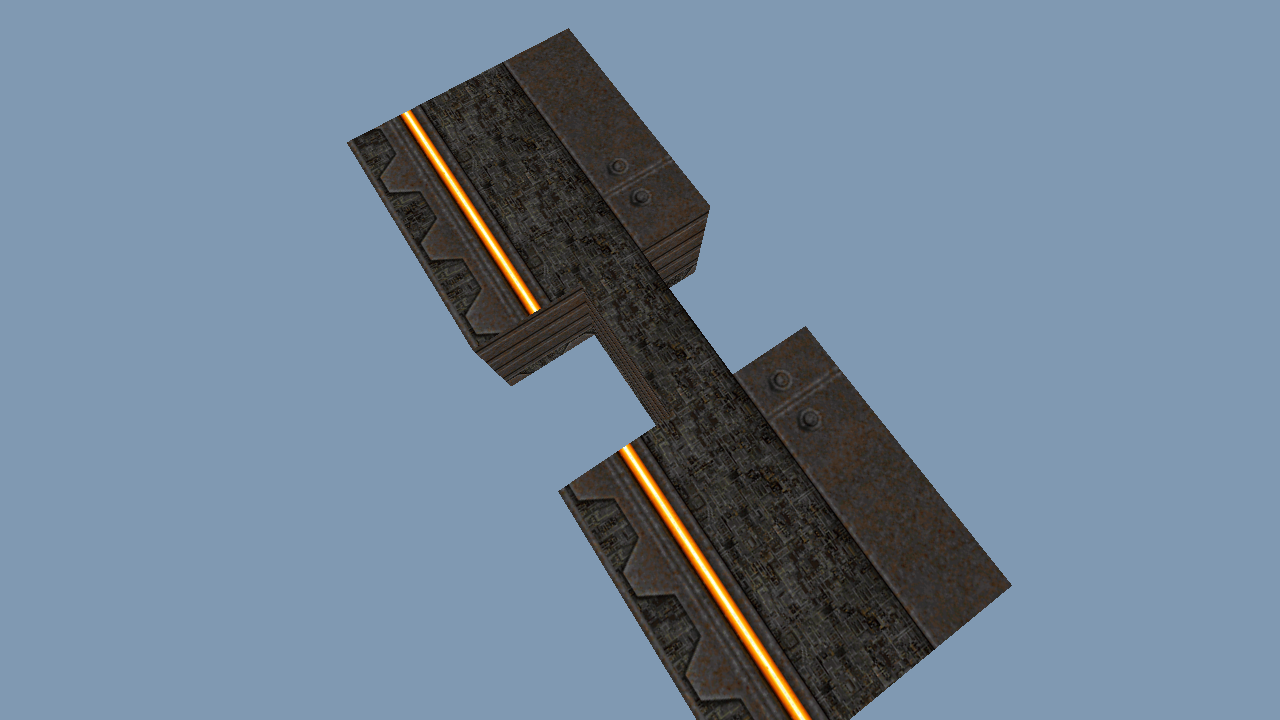
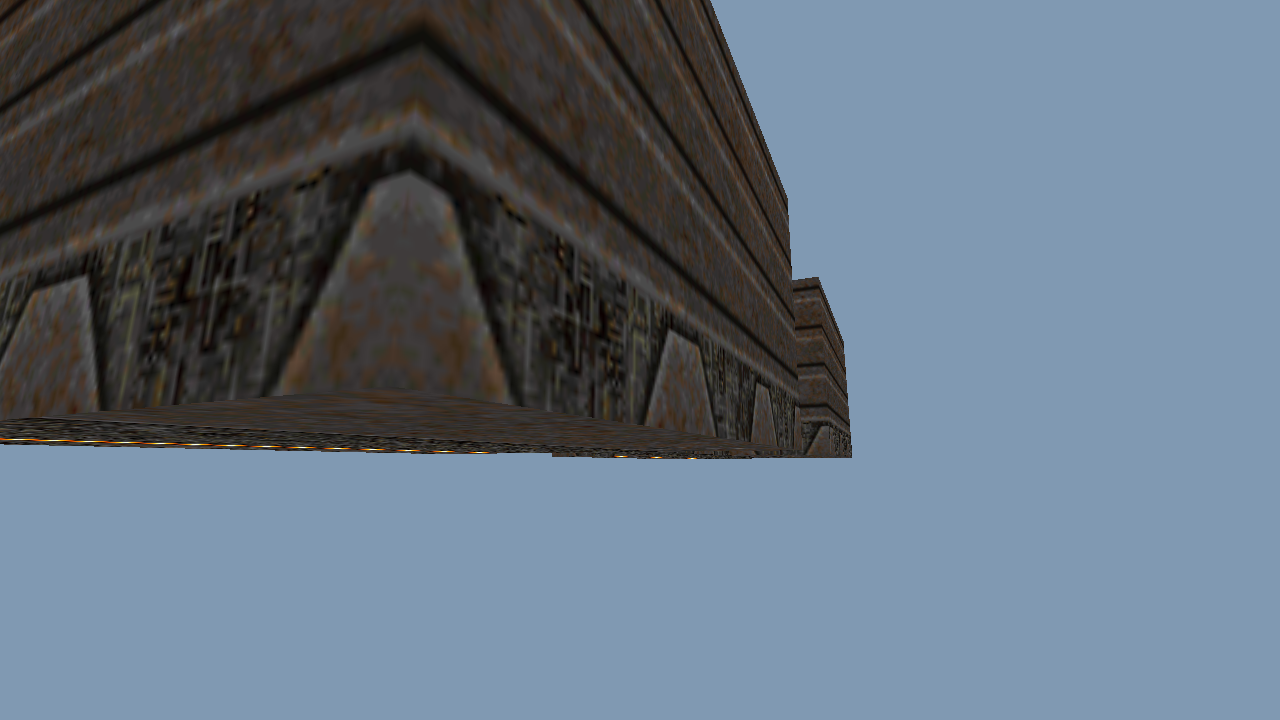
Implement per-face texture rendering with GL texture arrays
- Load all BSP-referenced textures into memory arrays
- Create GL_TEXTURE_2D_ARRAY and upload textures as layers
- Pass texture index per-vertex via normal.x field
- Update shaders to use sampler2DArray with flat texture index
- Engine now renders different textures on different faces (wall/floor/ceiling)

diff --git a/q2.c b/q2.c
@@ -17,7 +17,7 @@ M PR(F fov,F asp,F n,F f){M r=ID();F t=1/tanf(fov*.5f);r.m[0]=t/asp;r.m[5]=t;r.m
 M LK(V e,V t,V u){V f={t.x-e.x,t.y-e.y,t.z-e.z};F l=sqrtf(f.x*f.x+f.y*f.y+f.z*f.z);f.x/=l;f.y/=l;f.z/=l;V s={f.y*u.z-f.z*u.y,f.z*u.x-f.x*u.z,f.x*u.y-f.y*u.x};l=sqrtf(s.x*s.x+s.y*s.y+s.z*s.z);s.x/=l;s.y/=l;s.z/=l;V v={s.y*f.z-s.z*f.y,s.z*f.x-s.x*f.z,s.x*f.y-s.y*f.x};M r=ID();r.m[0]=s.x;r.m[4]=s.y;r.m[8]=s.z;r.m[1]=v.x;r.m[5]=v.y;r.m[9]=v.z;r.m[2]=-f.x;r.m[6]=-f.y;r.m[10]=-f.z;r.m[12]=-(s.x*e.x+s.y*e.y+s.z*e.z);r.m[13]=-(v.x*e.x+v.y*e.y+v.z*e.z);r.m[14]=f.x*e.x+f.y*e.y+f.z*e.z;return r;}
 void LP(){I sz;U*d=LF("baseq2/pics/colormap.pcx",&sz);if(d&&sz>768){memcpy(pal,d+sz-768,768);free(d);printf("Palette: loaded\n");}else{free(d);printf("Palette: failed\n");}}
 I LW(const char*p){I sz;U*d=LF(p,&sz);if(!d||sz<100)return 0;TX*h=(TX*)d;I tw=h->w,th=h->h;U*rgb=malloc(tw*th*3);for(I i=0;i<tw*th;i++){U idx=d[h->o[0]+i];rgb[i*3]=pal[idx*3];rgb[i*3+1]=pal[idx*3+1];rgb[i*3+2]=pal[idx*3+2];}I tx;glGenTextures(1,&tx);glBindTexture(GL_TEXTURE_2D,tx);glTexImage2D(GL_TEXTURE_2D,0,GL_RGB,tw,th,0,GL_RGB,GL_UNSIGNED_BYTE,rgb);glTexParameteri(GL_TEXTURE_2D,GL_TEXTURE_MIN_FILTER,GL_LINEAR);glTexParameteri(GL_TEXTURE_2D,GL_TEXTURE_MAG_FILTER,GL_LINEAR);printf("WAL: %dx%d\n",tw,th);free(rgb);free(d);return tx;}
-I txm[256];I txc=0;void BS(const char*p){I sz;U*d=LF(p,&sz);if(!d||sz<8||memcmp(d,"IBSP",4)||((I*)d)[1]!=38){F t[]={-100,-100,0,0,0,0.5,0.5,0,1,0,100,-100,0,1,0,0.5,0.5,0,1,0,0,100,0,0.5,1,0.5,0.5,0,1,0};vb=malloc(sizeof(t));memcpy(vb,t,sizeof(t));nv=3;return;}L*lp=(L*)(d+8);V*vx=(V*)(d+lp[2].o);TI*ti=(TI*)(d+lp[5].o);E*ed=(E*)(d+lp[11].o);J*se=(J*)(d+lp[12].o);FC*fc=(FC*)(d+lp[6].o);U*lm=(U*)(d+lp[7].o);I nf=lp[6].l/sizeof(FC);I nt=lp[5].l/sizeof(TI);for(I i=0;i<nt&&txc<256;i++){char pth[128];sprintf(pth,"baseq2/textures/%s.wal",ti[i].n);I tx=LW(pth);txm[i]=tx?tx:tex;}U*la=malloc(512*512*3);memset(la,128,512*512*3);I lx=0,ly=0,lh=0;vb=malloc(nf*100*10*sizeof(F));F*vp=vb;F mx=-9e9,my=-9e9,mz=-9e9,Mx=9e9,My=9e9,Mz=9e9;for(I i=0;i<nf;i++){FC*f=&fc[i];TI*tx=&ti[f->ti];V vl[64];I nv_=0;F mu=9e9,mv=9e9,Mu=-9e9,Mv=-9e9;for(I j=0;j<f->ne&&j<64;j++){J si=se[f->fe+j];S vi=si>=0?ed[si].v[0]:ed[-si].v[1];vl[nv_]=vx[vi];F u=vl[nv_].x*tx->v[0][0]+vl[nv_].y*tx->v[0][1]+vl[nv_].z*tx->v[0][2]+tx->v[0][3];F vv=vl[nv_].x*tx->v[1][0]+vl[nv_].y*tx->v[1][1]+vl[nv_].z*tx->v[1][2]+tx->v[1][3];mu=u<mu?u:mu;mv=vv<mv?vv:mv;Mu=u>Mu?u:Mu;Mv=vv>Mv?vv:Mv;nv_++;}I lw=(I)((Mu-mu)/16)+1,lh_=(I)((Mv-mv)/16)+1;if(lx+lw>512){lx=0;ly+=lh+1;lh=0;}if(f->lm>=0&&f->lm<lp[7].l){for(I y=0;y<lh_;y++)for(I x=0;x<lw;x++){I si=(lx+x+(ly+y)*512)*3,di=f->lm+(x+y*lw)*3;if(di+2<lp[7].l){la[si]=lm[di];la[si+1]=lm[di+1];la[si+2]=lm[di+2];}}}for(I t=0;t<nv_-2;t++){for(I k=0;k<3;k++){V*v=k==0?&vl[0]:k==1?&vl[t+1]:&vl[t+2];F u=(v->x*tx->v[0][0]+v->y*tx->v[0][1]+v->z*tx->v[0][2]+tx->v[0][3])/256.0f;F vv=(v->x*tx->v[1][0]+v->y*tx->v[1][1]+v->z*tx->v[1][2]+tx->v[1][3])/512.0f;F lu=(v->x*tx->v[0][0]+v->y*tx->v[0][1]+v->z*tx->v[0][2]+tx->v[0][3]-mu)/16.0f;F lv=(v->x*tx->v[1][0]+v->y*tx->v[1][1]+v->z*tx->v[1][2]+tx->v[1][3]-mv)/16.0f;mx=v->x>mx?v->x:mx;my=v->y>my?v->y:my;mz=v->z>mz?v->z:mz;Mx=v->x<Mx?v->x:Mx;My=v->y<My?v->y:My;Mz=v->z<Mz?v->z:Mz;*vp++=v->x;*vp++=v->y;*vp++=v->z;*vp++=u;*vp++=vv;*vp++=(lx+lu)/512.0f;*vp++=(ly+lv)/512.0f;*vp++=f->ti/255.0f;*vp++=1;*vp++=1;}}lx+=lw+1;lh=lh_>lh?lh_:lh;}nv=(vp-vb)/10;glGenTextures(1,&lmt);glBindTexture(GL_TEXTURE_2D,lmt);glTexImage2D(GL_TEXTURE_2D,0,GL_RGB,512,512,0,GL_RGB,GL_UNSIGNED_BYTE,la);glTexParameteri(GL_TEXTURE_2D,GL_TEXTURE_MIN_FILTER,GL_LINEAR);glTexParameteri(GL_TEXTURE_2D,GL_TEXTURE_MAG_FILTER,GL_LINEAR);free(la);printf("BSP: %d faces -> %d tris, %d textures, bounds:[%.0f,%.0f] [%.0f,%.0f] [%.0f,%.0f]\n",nf,nv/3,nt,Mx,mx,My,my,Mz,mz);free(d);}
+U*txd[256];I txw[256],txh[256],txc=0;void BS(const char*p){I sz;U*d=LF(p,&sz);if(!d||sz<8||memcmp(d,"IBSP",4)||((I*)d)[1]!=38){F t[]={-100,-100,0,0,0,0.5,0.5,0,1,0,100,-100,0,1,0,0.5,0.5,0,1,0,0,100,0,0.5,1,0.5,0.5,0,1,0};vb=malloc(sizeof(t));memcpy(vb,t,sizeof(t));nv=3;return;}L*lp=(L*)(d+8);V*vx=(V*)(d+lp[2].o);TI*ti=(TI*)(d+lp[5].o);E*ed=(E*)(d+lp[11].o);J*se=(J*)(d+lp[12].o);FC*fc=(FC*)(d+lp[6].o);U*lm=(U*)(d+lp[7].o);I nf=lp[6].l/sizeof(FC);I nt=lp[5].l/sizeof(TI);for(I i=0;i<nt&&txc<256;i++){char pth[128];sprintf(pth,"baseq2/textures/%s.wal",ti[i].n);I sz2;U*td=LF(pth,&sz2);if(td&&sz2>100){TX*h=(TX*)td;txw[txc]=h->w;txh[txc]=h->h;txd[txc]=malloc(h->w*h->h*3);for(I j=0;j<h->w*h->h;j++){U idx=td[h->o[0]+j];txd[txc][j*3]=pal[idx*3];txd[txc][j*3+1]=pal[idx*3+1];txd[txc][j*3+2]=pal[idx*3+2];}txc++;free(td);}}U*la=malloc(512*512*3);memset(la,128,512*512*3);I lx=0,ly=0,lh=0;vb=malloc(nf*100*10*sizeof(F));F*vp=vb;F mx=-9e9,my=-9e9,mz=-9e9,Mx=9e9,My=9e9,Mz=9e9;for(I i=0;i<nf;i++){FC*f=&fc[i];TI*tx=&ti[f->ti];V vl[64];I nv_=0;F mu=9e9,mv=9e9,Mu=-9e9,Mv=-9e9;for(I j=0;j<f->ne&&j<64;j++){J si=se[f->fe+j];S vi=si>=0?ed[si].v[0]:ed[-si].v[1];vl[nv_]=vx[vi];F u=vl[nv_].x*tx->v[0][0]+vl[nv_].y*tx->v[0][1]+vl[nv_].z*tx->v[0][2]+tx->v[0][3];F vv=vl[nv_].x*tx->v[1][0]+vl[nv_].y*tx->v[1][1]+vl[nv_].z*tx->v[1][2]+tx->v[1][3];mu=u<mu?u:mu;mv=vv<mv?vv:mv;Mu=u>Mu?u:Mu;Mv=vv>Mv?vv:Mv;nv_++;}I lw=(I)((Mu-mu)/16)+1,lh_=(I)((Mv-mv)/16)+1;if(lx+lw>512){lx=0;ly+=lh+1;lh=0;}if(f->lm>=0&&f->lm<lp[7].l){for(I y=0;y<lh_;y++)for(I x=0;x<lw;x++){I si=(lx+x+(ly+y)*512)*3,di=f->lm+(x+y*lw)*3;if(di+2<lp[7].l){la[si]=lm[di];la[si+1]=lm[di+1];la[si+2]=lm[di+2];}}}for(I t=0;t<nv_-2;t++){for(I k=0;k<3;k++){V*v=k==0?&vl[0]:k==1?&vl[t+1]:&vl[t+2];F u=(v->x*tx->v[0][0]+v->y*tx->v[0][1]+v->z*tx->v[0][2]+tx->v[0][3])/256.0f;F vv=(v->x*tx->v[1][0]+v->y*tx->v[1][1]+v->z*tx->v[1][2]+tx->v[1][3])/512.0f;F lu=(v->x*tx->v[0][0]+v->y*tx->v[0][1]+v->z*tx->v[0][2]+tx->v[0][3]-mu)/16.0f;F lv=(v->x*tx->v[1][0]+v->y*tx->v[1][1]+v->z*tx->v[1][2]+tx->v[1][3]-mv)/16.0f;mx=v->x>mx?v->x:mx;my=v->y>my?v->y:my;mz=v->z>mz?v->z:mz;Mx=v->x<Mx?v->x:Mx;My=v->y<My?v->y:My;Mz=v->z<Mz?v->z:Mz;*vp++=v->x;*vp++=v->y;*vp++=v->z;*vp++=u;*vp++=vv;*vp++=(lx+lu)/512.0f;*vp++=(ly+lv)/512.0f;*vp++=f->ti;*vp++=1;*vp++=1;}}lx+=lw+1;lh=lh_>lh?lh_:lh;}nv=(vp-vb)/10;glGenTextures(1,&lmt);glBindTexture(GL_TEXTURE_2D,lmt);glTexImage2D(GL_TEXTURE_2D,0,GL_RGB,512,512,0,GL_RGB,GL_UNSIGNED_BYTE,la);glTexParameteri(GL_TEXTURE_2D,GL_TEXTURE_MIN_FILTER,GL_LINEAR);glTexParameteri(GL_TEXTURE_2D,GL_TEXTURE_MAG_FILTER,GL_LINEAR);free(la);printf("BSP: %d faces -> %d tris, %d textures, bounds:[%.0f,%.0f] [%.0f,%.0f] [%.0f,%.0f]\n",nf,nv/3,txc,Mx,mx,My,my,Mz,mz);free(d);}
 void SS(const char*p){U*d=malloc(W*H*3);glReadPixels(0,0,W,H,GL_RGB,GL_UNSIGNED_BYTE,d);FILE*f=fopen(p,"wb");fprintf(f,"P6\n%d %d\n255\n",W,H);for(int y=H-1;y>=0;y--)fwrite(d+y*W*3,1,W*3,f);fclose(f);free(d);printf("Saved: %s\n",p);}
 int main(int ac,char**av){
 SDL_Init(SDL_INIT_VIDEO);SDL_GL_SetAttribute(SDL_GL_CONTEXT_MAJOR_VERSION,3);SDL_GL_SetAttribute(SDL_GL_CONTEXT_MINOR_VERSION,3);SDL_GL_SetAttribute(SDL_GL_CONTEXT_PROFILE_MASK,SDL_GL_CONTEXT_PROFILE_CORE);
@@ -26,13 +26,14 @@ ALCdevice*ad=alcOpenDevice(0);ALCcontext*ac_=alcCreateContext(ad,0);alcMakeConte
 I vs=CS(GL_VERTEX_SHADER,"vert.glsl"),fs=CS(GL_FRAGMENT_SHADER,"frag.glsl");prg=glCreateProgram();glAttachShader(prg,vs);glAttachShader(prg,fs);glLinkProgram(prg);glUseProgram(prg);
 LP();tex=LW("baseq2/textures/eq2/wall.wal");
 BS(ac>1?av[1]:"baseq2/maps/sample.bsp");
+I txa;glGenTextures(1,&txa);glBindTexture(GL_TEXTURE_2D_ARRAY,txa);glTexImage3D(GL_TEXTURE_2D_ARRAY,0,GL_RGB,256,512,txc,0,GL_RGB,GL_UNSIGNED_BYTE,0);for(I i=0;i<txc;i++)glTexSubImage3D(GL_TEXTURE_2D_ARRAY,0,0,0,i,txw[i],txh[i],1,GL_RGB,GL_UNSIGNED_BYTE,txd[i]);glTexParameteri(GL_TEXTURE_2D_ARRAY,GL_TEXTURE_MIN_FILTER,GL_LINEAR);glTexParameteri(GL_TEXTURE_2D_ARRAY,GL_TEXTURE_MAG_FILTER,GL_LINEAR);glTexParameteri(GL_TEXTURE_2D_ARRAY,GL_TEXTURE_WRAP_S,GL_REPEAT);glTexParameteri(GL_TEXTURE_2D_ARRAY,GL_TEXTURE_WRAP_T,GL_REPEAT);
 glGenVertexArrays(1,&vao);glGenBuffers(1,&vbo);glBindVertexArray(vao);glBindBuffer(GL_ARRAY_BUFFER,vbo);glBufferData(GL_ARRAY_BUFFER,nv*10*sizeof(F),vb,GL_STATIC_DRAW);
 glEnableVertexAttribArray(0);glVertexAttribPointer(0,3,GL_FLOAT,0,40,0);
 glEnableVertexAttribArray(1);glVertexAttribPointer(1,2,GL_FLOAT,0,40,(void*)12);
 glEnableVertexAttribArray(2);glVertexAttribPointer(2,2,GL_FLOAT,0,40,(void*)20);
 glEnableVertexAttribArray(3);glVertexAttribPointer(3,3,GL_FLOAT,0,40,(void*)28);
 cam=(V){0,0,600};glDisable(GL_CULL_FACE);
-glActiveTexture(GL_TEXTURE0);glBindTexture(GL_TEXTURE_2D,tex);glUniform1i(glGetUniformLocation(prg,"d"),0);
+glActiveTexture(GL_TEXTURE0);glBindTexture(GL_TEXTURE_2D_ARRAY,txa);glUniform1i(glGetUniformLocation(prg,"d"),0);
 glActiveTexture(GL_TEXTURE1);glBindTexture(GL_TEXTURE_2D,lmt);glUniform1i(glGetUniformLocation(prg,"e"),1);
 for(int i=0;i<180;i++){ya=i*.02f;pi=sinf(i*.05f)*.3f;cam.x=120+cosf(ya)*400;cam.y=-80+sinf(ya)*400;cam.z=88+sinf(i*.03f)*100;alListener3f(AL_POSITION,cam.x,cam.y,cam.z);V t={120,-80,88};M mo=ID(),vi=LK(cam,t,(V){0,0,1}),pj=PR(1.2f,(F)W/H,1,10000);glUniformMatrix4fv(glGetUniformLocation(prg,"m"),1,0,mo.m);glUniformMatrix4fv(glGetUniformLocation(prg,"v"),1,0,vi.m);glUniformMatrix4fv(glGetUniformLocation(prg,"j"),1,0,pj.m);glUniform3f(glGetUniformLocation(prg,"a"),cam.x,cam.y,cam.z);glUniform1f(glGetUniformLocation(prg,"g"),0.0005f);glClearColor(0.5,0.6,0.7,1);glClear(GL_COLOR_BUFFER_BIT|GL_DEPTH_BUFFER_BIT);glDrawArrays(GL_TRIANGLES,0,nv);SDL_GL_SwapWindow(w);if(i%60==0){char n[32];sprintf(n,"cam_%d.ppm",i/60);SS(n);}SDL_Delay(16);}
 SS("bsp_render.ppm");
